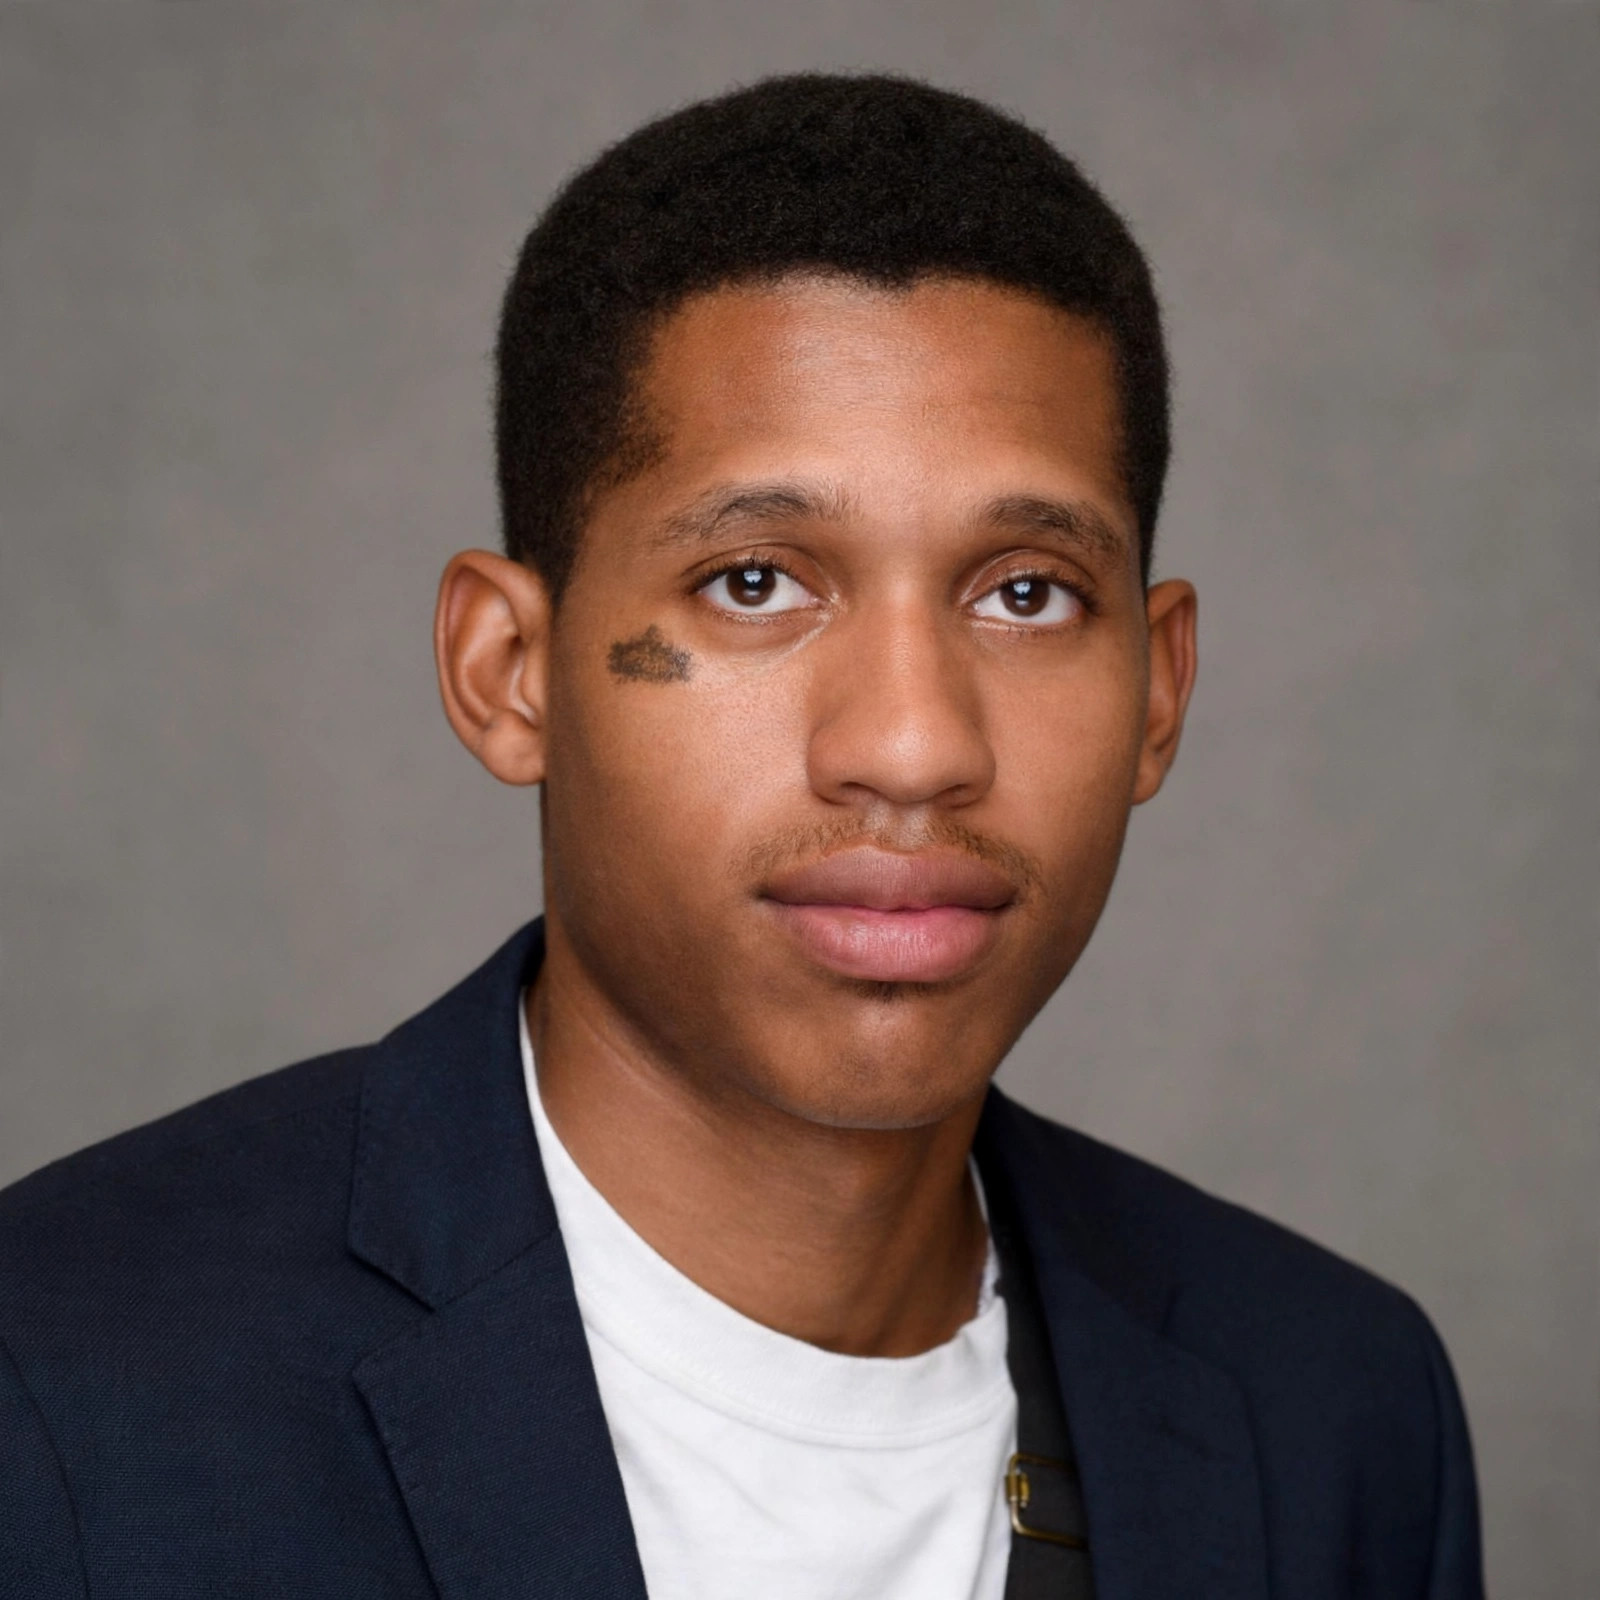
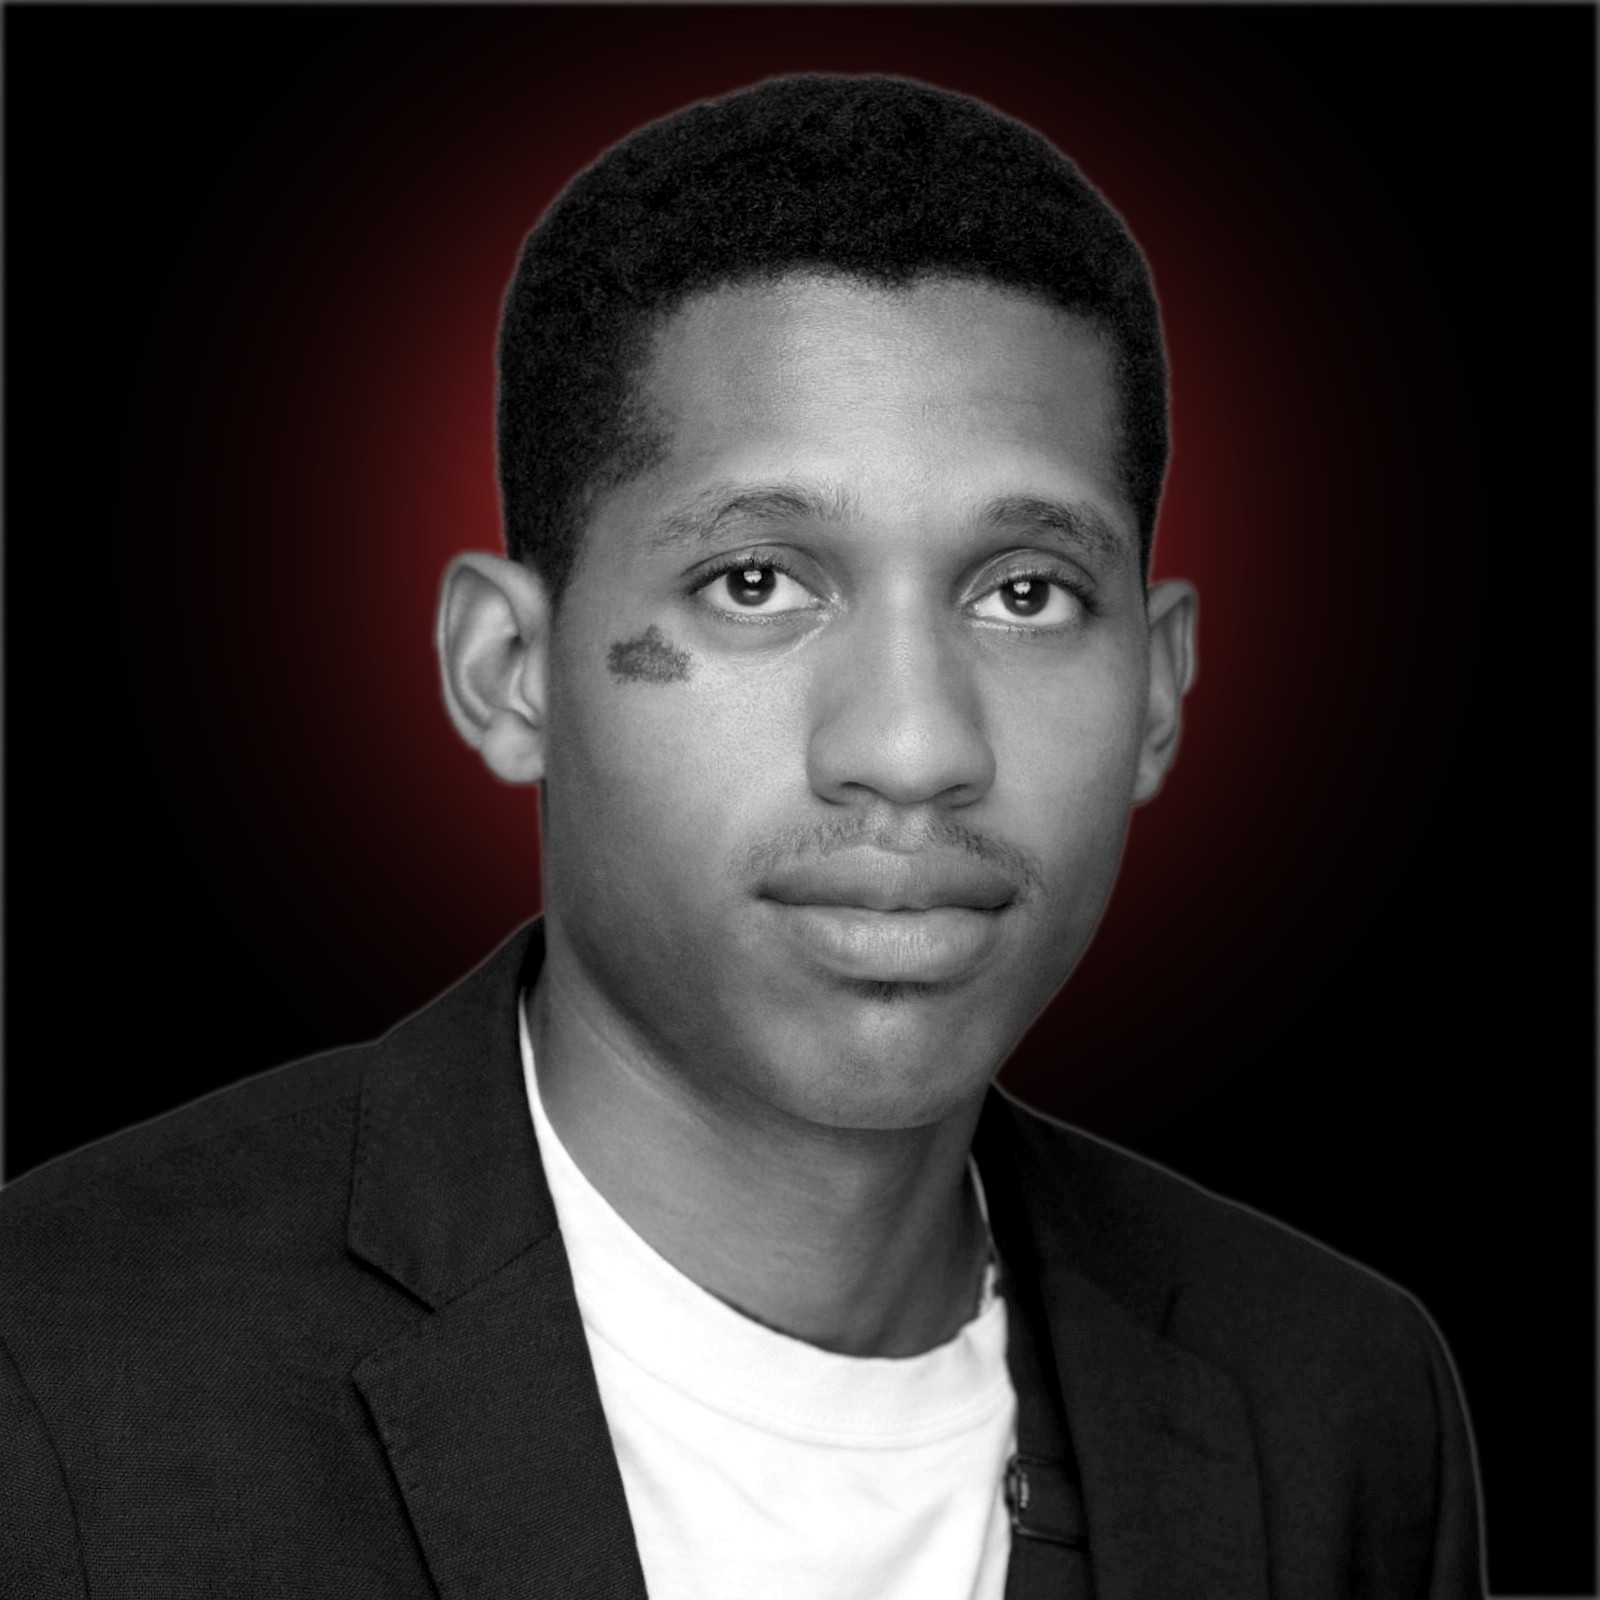
About portrait: black / white / crimson 60-25-15 treatment (owner call Nov 7)
- Re-cut the headshot: B&W portrait on black with a crimson
  (#E5383B site accent) glow behind the head, fading to black
- Exempt the portrait from the site-wide grayscale filter so the
  crimson survives; bump stylesheet to v6

diff --git a/public/about.html b/public/about.html
@@ -13,7 +13,7 @@
 <link rel="preconnect" href="https://fonts.googleapis.com">
 <link rel="preconnect" href="https://fonts.gstatic.com" crossorigin>
 <link href="https://fonts.googleapis.com/css2?family=Archivo:wght@400;600;700;800&family=Cinzel+Decorative:wght@700;900&family=IBM+Plex+Mono:wght@400;700&display=swap" rel="stylesheet">
-<link rel="stylesheet" href="assets/css/style.css?v=5">
+<link rel="stylesheet" href="assets/css/style.css?v=6">
 <link rel="icon" href="assets/logos/skull-sm.jpg?v=2">
 </head>
 <body>
@@ -21,7 +21,7 @@
 <main class="wrap">
   <div class="beat-detail" style="align-items:start">
     <div>
-      <div class="beat-cover-lg"><img src="assets/images/jawanza.jpg" alt="JINZA — Jawanza Martindale, founder and producer of YSJ Studio" width="1600" height="1600"></div>
+      <div class="beat-cover-lg"><img class="portrait-color" src="assets/images/jawanza.jpg" alt="JINZA — Jawanza Martindale, founder and producer of YSJ Studio" width="1600" height="1600"></div>
     </div>
     <div class="prose">
       <p class="eyebrow">✦ The Producer ✦</p>

diff --git a/public/assets/css/style.css b/public/assets/css/style.css
@@ -166,7 +166,7 @@ main { padding: 2rem 0 4rem; min-height: 60vh; }
 .beat-art img { width: 100%; height: 100%; object-fit: cover; }
 /* Covers render grayscale per the B&W scheme; logo artwork is never filtered. */
 .beat-art img, .beat-cover-lg img, .cart-line img { filter: grayscale(1); }
-.beat-cover-lg img[src*="assets/logos/"] { filter: none; }
+.beat-cover-lg img[src*="assets/logos/"], .beat-cover-lg img.portrait-color { filter: none; }
 .beat-badges { position: absolute; top: .6rem; left: .6rem; display: flex; gap: .4rem; }
 .badge { font-size: .7rem; font-weight: 800; letter-spacing: .08em; text-transform: uppercase;
   padding: .25em .7em; border-radius: 999px; }

diff --git a/public/contact.html b/public/contact.html
@@ -13,7 +13,7 @@
 <link rel="preconnect" href="https://fonts.googleapis.com">
 <link rel="preconnect" href="https://fonts.gstatic.com" crossorigin>
 <link href="https://fonts.googleapis.com/css2?family=Archivo:wght@400;600;700;800&family=Cinzel+Decorative:wght@700;900&family=IBM+Plex+Mono:wght@400;700&display=swap" rel="stylesheet">
-<link rel="stylesheet" href="assets/css/style.css?v=5">
+<link rel="stylesheet" href="assets/css/style.css?v=6">
 <link rel="icon" href="assets/logos/skull-sm.jpg?v=2">
 </head>
 <body>

diff --git a/public/index.html b/public/index.html
@@ -16,7 +16,7 @@
 <link rel="preconnect" href="https://fonts.googleapis.com">
 <link rel="preconnect" href="https://fonts.gstatic.com" crossorigin>
 <link href="https://fonts.googleapis.com/css2?family=Archivo:wght@400;600;700;800&family=Cinzel+Decorative:wght@700;900&family=IBM+Plex+Mono:wght@400;700&display=swap" rel="stylesheet">
-<link rel="stylesheet" href="assets/css/style.css?v=5">
+<link rel="stylesheet" href="assets/css/style.css?v=6">
 <link rel="icon" href="assets/logos/skull-sm.jpg?v=2">
 </head>
 <body>

diff --git a/public/services.html b/public/services.html
@@ -13,7 +13,7 @@
 <link rel="preconnect" href="https://fonts.googleapis.com">
 <link rel="preconnect" href="https://fonts.gstatic.com" crossorigin>
 <link href="https://fonts.googleapis.com/css2?family=Archivo:wght@400;600;700;800&family=Cinzel+Decorative:wght@700;900&family=IBM+Plex+Mono:wght@400;700&display=swap" rel="stylesheet">
-<link rel="stylesheet" href="assets/css/style.css?v=5">
+<link rel="stylesheet" href="assets/css/style.css?v=6">
 <link rel="icon" href="assets/logos/skull-sm.jpg?v=2">
 </head>
 <body>

diff --git a/public/404.html b/public/404.html
@@ -7,7 +7,7 @@
 <link rel="preconnect" href="https://fonts.googleapis.com">
 <link rel="preconnect" href="https://fonts.gstatic.com" crossorigin>
 <link href="https://fonts.googleapis.com/css2?family=Archivo:wght@400;600;700;800&family=Cinzel+Decorative:wght@700;900&family=IBM+Plex+Mono:wght@400;700&display=swap" rel="stylesheet">
-<link rel="stylesheet" href="assets/css/style.css?v=5">
+<link rel="stylesheet" href="assets/css/style.css?v=6">
 <link rel="icon" href="assets/logos/skull-sm.jpg?v=2">
 </head>
 <body>

diff --git a/public/privacy.html b/public/privacy.html
@@ -8,7 +8,7 @@
 <link rel="preconnect" href="https://fonts.googleapis.com">
 <link rel="preconnect" href="https://fonts.gstatic.com" crossorigin>
 <link href="https://fonts.googleapis.com/css2?family=Archivo:wght@400;600;700;800&family=Cinzel+Decorative:wght@700;900&family=IBM+Plex+Mono:wght@400;700&display=swap" rel="stylesheet">
-<link rel="stylesheet" href="assets/css/style.css?v=5">
+<link rel="stylesheet" href="assets/css/style.css?v=6">
 <link rel="icon" href="assets/logos/skull-sm.jpg?v=2">
 </head>
 <body>

diff --git a/public/terms.html b/public/terms.html
@@ -8,7 +8,7 @@
 <link rel="preconnect" href="https://fonts.googleapis.com">
 <link rel="preconnect" href="https://fonts.gstatic.com" crossorigin>
 <link href="https://fonts.googleapis.com/css2?family=Archivo:wght@400;600;700;800&family=Cinzel+Decorative:wght@700;900&family=IBM+Plex+Mono:wght@400;700&display=swap" rel="stylesheet">
-<link rel="stylesheet" href="assets/css/style.css?v=5">
+<link rel="stylesheet" href="assets/css/style.css?v=6">
 <link rel="icon" href="assets/logos/skull-sm.jpg?v=2">
 </head>
 <body>
